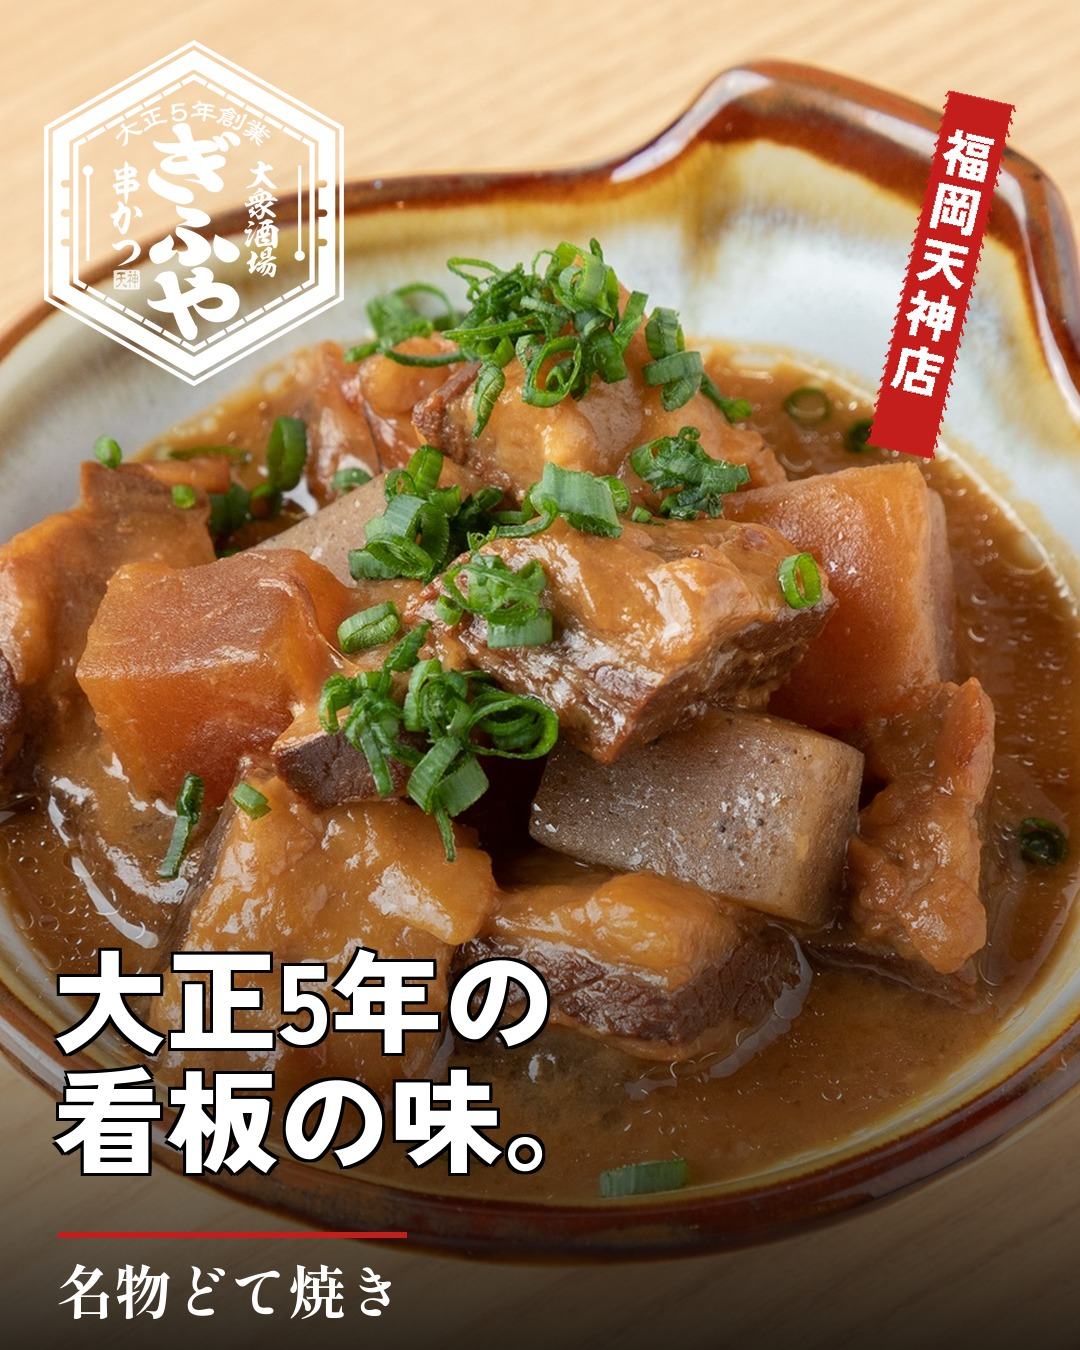
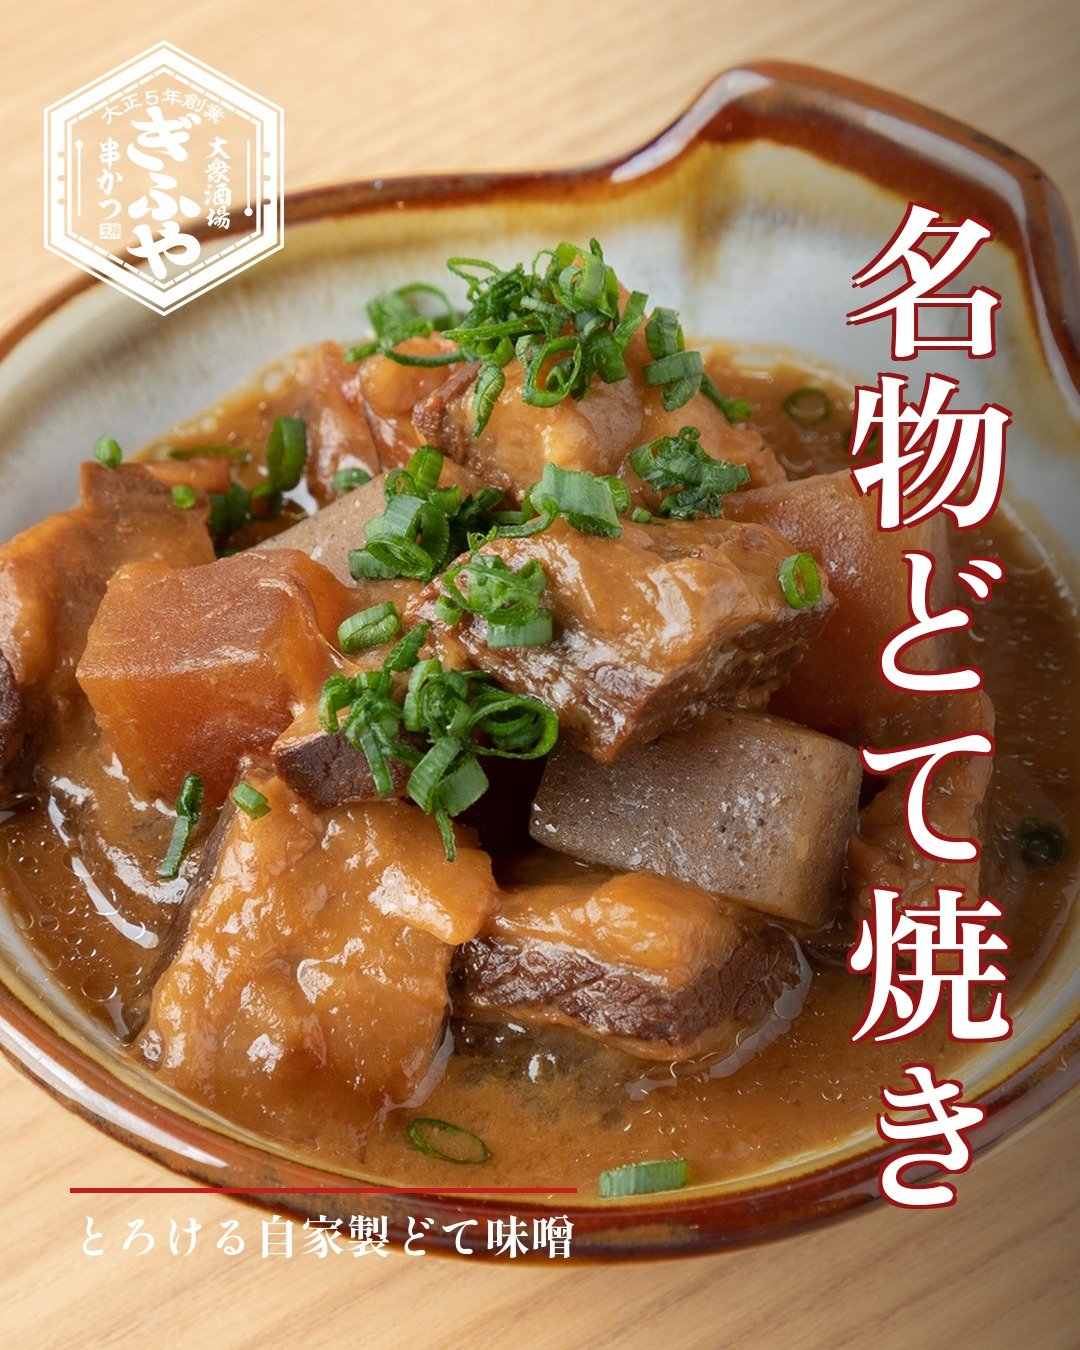
deploy PWA app

diff --git a/app/sw.js b/app/sw.js
@@ -1,1 +1,1 @@
-var VER="susabiyu-v83",SHELL=VER+"-shell",MEDIA=VER+"-media",SHELL_FILES=["./","./index.html","./app.js","./config.js","./home.html","./stores.js","./store.html","./reels.html","./gifuyatenjin.html","./manifest.webmanifest","./icons/icon-192.png","./icons/icon-512.png","./icons/storelogo_white.png"];self.addEventListener("install",function(n){n.waitUntil(caches.open(SHELL).then(function(n){return n.addAll(SHELL_FILES).catch(function(){})}).then(function(){return self.skipWaiting()}))}),self.addEventListener("activate",function(n){n.waitUntil(caches.keys().then(function(n){return Promise.all(n.map(function(n){if(0!==n.indexOf(VER))return caches.delete(n)}))}).then(function(){return self.clients.claim()}))}),self.addEventListener("fetch",function(n){var t=n.request;if("GET"===t.method){var e=new URL(t.url);e.hostname.indexOf("script.google")>=0||e.hostname.indexOf("googleusercontent")>=0||/\.(mp4|mov|webm)$/i.test(e.pathname)||(e.hostname.indexOf("jsdelivr.net")>=0||/\.(jpg|jpeg|png|webp)$/i.test(e.pathname)?n.respondWith(caches.open(MEDIA).then(function(n){return n.match(t).then(function(e){var i=fetch(t).then(function(e){return e&&200===e.status&&"opaque"!==e.type&&n.put(t,e.clone()),e});return e?(i.catch(function(){}),e):i})})):e.origin===self.location.origin&&/\/(home\.html|stores\.js|store\.html|reels\.html|gifuyatenjin\.html)$/.test(e.pathname)?n.respondWith(fetch(t).then(function(n){if(n&&200===n.status){var e=n.clone();caches.open(SHELL).then(function(n){n.put(t,e)})}return n}).catch(function(){return caches.open(SHELL).then(function(n){return n.match(t)})})):e.origin===self.location.origin&&n.respondWith(caches.open(SHELL).then(function(n){return n.match(t).then(function(e){var i=fetch(t).then(function(e){return e&&200===e.status&&n.put(t,e.clone()),e}).catch(function(){return e});return e||i.catch(function(){return caches.match("./index.html")})})})))}});var BADGE_CACHE="susabiyu-badge";function badgeGet(){return caches.open(BADGE_CACHE).then(function(n){return n.match("/n")}).then(function(n){return n?n.text():"0"}).then(function(n){return parseInt(n,10)||0}).catch(function(){return 0})}function badgeStore(n){return caches.open(BADGE_CACHE).then(function(t){return t.put("/n",new Response(String(n)))}).catch(function(){})}function badgeShow(n){try{if(n>0&&self.navigator&&self.navigator.setAppBadge)return self.navigator.setAppBadge(n);if(self.navigator&&self.navigator.clearAppBadge)return self.navigator.clearAppBadge()}catch(n){}}self.addEventListener("push",function(n){var t={};try{t=n.data?n.data.json():{}}catch(n){}var e=t.title||"すさび湯 確認",i=t.body||"新しい投稿の確認待ちがあります";n.waitUntil(self.clients.matchAll({type:"window",includeUncontrolled:!0}).then(function(n){return n.some(function(n){return"visible"===n.visibilityState||n.focused})?Promise.resolve(0):badgeGet().then(function(n){return n+1})}).then(function(n){return badgeStore(n).then(function(){return badgeShow(n)})}).then(function(){return self.registration.showNotification(e,{body:i,icon:"./icons/icon-192.png",badge:"./icons/icon-192.png",vibrate:[120,60,120],tag:t.tag||"susabiyu",renotify:!0,silent:!1,requireInteraction:!1,data:{url:t.url||"./",focus:t.focus||""}})}))}),self.addEventListener("message",function(n){n.data&&"clearBadge"===n.data.type&&n.waitUntil(badgeStore(0).then(function(){return badgeShow(0)}))}),self.addEventListener("notificationclick",function(n){n.notification.close();var t=n.notification.data||{},e=t.focus||"",i=t.url||"./",o=i+(e?(i.indexOf("?")>=0?"&":"?")+"focus="+encodeURIComponent(e):"");n.waitUntil(clients.matchAll({type:"window",includeUncontrolled:!0}).then(function(n){for(var t=0;t<n.length;t++)if("focus"in n[t]){try{n[t].postMessage({type:"focus",token:e})}catch(n){}return n[t].focus()}if(clients.openWindow)return clients.openWindow(o)}))});
+var VER="susabiyu-v84",SHELL=VER+"-shell",MEDIA=VER+"-media",SHELL_FILES=["./","./index.html","./app.js","./config.js","./home.html","./stores.js","./store.html","./reels.html","./gifuyatenjin.html","./manifest.webmanifest","./icons/icon-192.png","./icons/icon-512.png","./icons/storelogo_white.png"];self.addEventListener("install",function(n){n.waitUntil(caches.open(SHELL).then(function(n){return n.addAll(SHELL_FILES).catch(function(){})}).then(function(){return self.skipWaiting()}))}),self.addEventListener("activate",function(n){n.waitUntil(caches.keys().then(function(n){return Promise.all(n.map(function(n){if(0!==n.indexOf(VER))return caches.delete(n)}))}).then(function(){return self.clients.claim()}))}),self.addEventListener("fetch",function(n){var t=n.request;if("GET"===t.method){var e=new URL(t.url);e.hostname.indexOf("script.google")>=0||e.hostname.indexOf("googleusercontent")>=0||/\.(mp4|mov|webm)$/i.test(e.pathname)||(e.hostname.indexOf("jsdelivr.net")>=0||/\.(jpg|jpeg|png|webp)$/i.test(e.pathname)?n.respondWith(caches.open(MEDIA).then(function(n){return n.match(t).then(function(e){var i=fetch(t).then(function(e){return e&&200===e.status&&"opaque"!==e.type&&n.put(t,e.clone()),e});return e?(i.catch(function(){}),e):i})})):e.origin===self.location.origin&&/\/(home\.html|stores\.js|store\.html|reels\.html|gifuyatenjin\.html)$/.test(e.pathname)?n.respondWith(fetch(t).then(function(n){if(n&&200===n.status){var e=n.clone();caches.open(SHELL).then(function(n){n.put(t,e)})}return n}).catch(function(){return caches.open(SHELL).then(function(n){return n.match(t)})})):e.origin===self.location.origin&&n.respondWith(caches.open(SHELL).then(function(n){return n.match(t).then(function(e){var i=fetch(t).then(function(e){return e&&200===e.status&&n.put(t,e.clone()),e}).catch(function(){return e});return e||i.catch(function(){return caches.match("./index.html")})})})))}});var BADGE_CACHE="susabiyu-badge";function badgeGet(){return caches.open(BADGE_CACHE).then(function(n){return n.match("/n")}).then(function(n){return n?n.text():"0"}).then(function(n){return parseInt(n,10)||0}).catch(function(){return 0})}function badgeStore(n){return caches.open(BADGE_CACHE).then(function(t){return t.put("/n",new Response(String(n)))}).catch(function(){})}function badgeShow(n){try{if(n>0&&self.navigator&&self.navigator.setAppBadge)return self.navigator.setAppBadge(n);if(self.navigator&&self.navigator.clearAppBadge)return self.navigator.clearAppBadge()}catch(n){}}self.addEventListener("push",function(n){var t={};try{t=n.data?n.data.json():{}}catch(n){}var e=t.title||"すさび湯 確認",i=t.body||"新しい投稿の確認待ちがあります";n.waitUntil(self.clients.matchAll({type:"window",includeUncontrolled:!0}).then(function(n){return n.some(function(n){return"visible"===n.visibilityState||n.focused})?Promise.resolve(0):badgeGet().then(function(n){return n+1})}).then(function(n){return badgeStore(n).then(function(){return badgeShow(n)})}).then(function(){return self.registration.showNotification(e,{body:i,icon:"./icons/icon-192.png",badge:"./icons/icon-192.png",vibrate:[120,60,120],tag:t.tag||"susabiyu",renotify:!0,silent:!1,requireInteraction:!1,data:{url:t.url||"./",focus:t.focus||""}})}))}),self.addEventListener("message",function(n){n.data&&"clearBadge"===n.data.type&&n.waitUntil(badgeStore(0).then(function(){return badgeShow(0)}))}),self.addEventListener("notificationclick",function(n){n.notification.close();var t=n.notification.data||{},e=t.focus||"",i=t.url||"./",o=i+(e?(i.indexOf("?")>=0?"&":"?")+"focus="+encodeURIComponent(e):"");n.waitUntil(clients.matchAll({type:"window",includeUncontrolled:!0}).then(function(n){for(var t=0;t<n.length;t++)if("focus"in n[t]){try{n[t].postMessage({type:"focus",token:e})}catch(n){}return n[t].focus()}if(clients.openWindow)return clients.openWindow(o)}))});

diff --git a/app/gifuyatenjin.html b/app/gifuyatenjin.html
@@ -86,7 +86,7 @@
 <div class="sgrid" id="sgrid"></div>
 
 <div class="sect">③ パターン見本 ・ デザインの型</div>
-<div class="note" style="margin-top:6px">投稿に使えるデザインの型です。今の12本は「短冊」で統一していますが、G・Hを混ぜることもできます。使いたい型を教えてください。</div>
+<div class="note" style="margin-top:6px">ぎふやは「短冊（メイン）」＋名物2品を「H 巨大縦書き」で構成しています。上の①フィードがその混在版です。</div>
 <div class="pgrid" id="pgrid"></div>
 
 <div id="toast"></div>
@@ -185,9 +185,8 @@
 
   // ③ パターン見本（デザインの型）
   var PATTERNS = [
-    {img:"pattern_tanzaku.jpg", t:"短冊（採用中）", d:"福岡天神店の赤短冊＋見出し。今の12本の型。安さ・名物訴求に強い。"},
-    {img:"pattern_cinema.jpg",  t:"G シネマ帯",   d:"上下の黒帯＋金ロゴ・金線。上品で高級感。刺身や逸品向け。"},
-    {img:"pattern_bigname.jpg", t:"H 巨大縦書き", d:"料理名を大きく縦書き。インパクト大で和の雰囲気。名物1品押しに。"}
+    {img:"pattern_tanzaku.jpg", t:"短冊（メイン）", d:"福岡天神店の赤短冊＋見出し。安さ・名物訴求に強い。フィードの主役。"},
+    {img:"pattern_bigname.jpg", t:"H 巨大縦書き", d:"料理名を大きく縦書き。インパクト大で和の雰囲気。名物1品押しに（元祖どてかつ・名物どて焼き で採用）。"}
   ];
   var pg = document.getElementById("pgrid");
   PATTERNS.forEach(function (p) {
